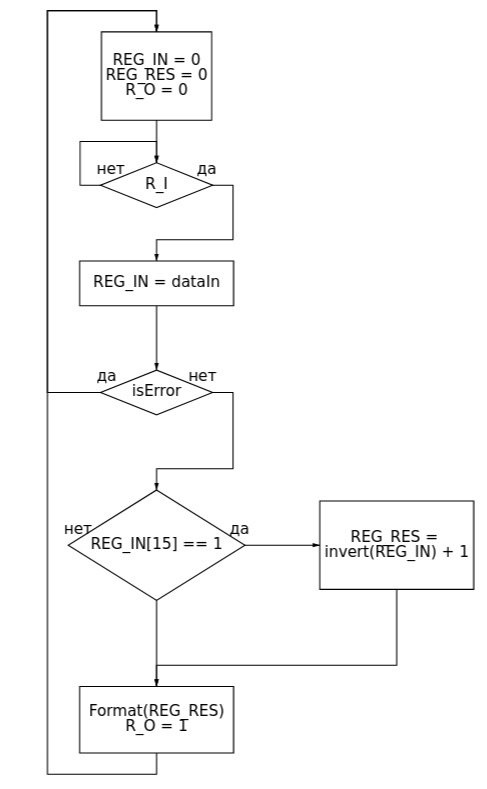
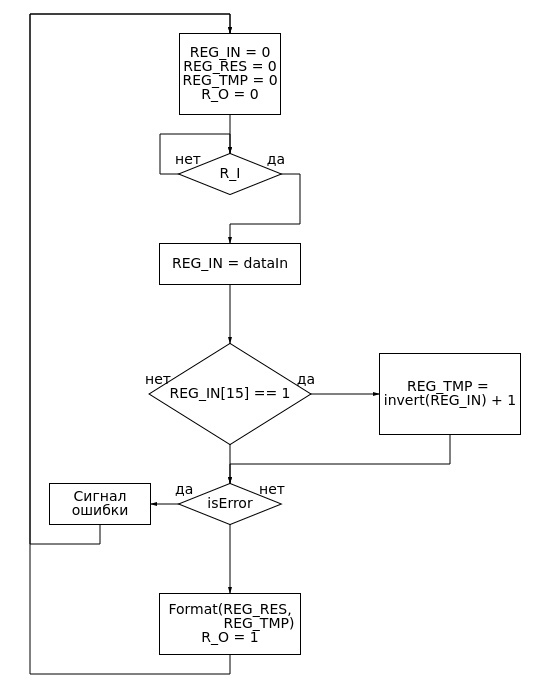
fsm description added

diff --git a/doc/fsm.md b/doc/fsm.md
@@ -7,14 +7,16 @@
 Разрядность регистра равна шестнадцати.
 2. Для сохранения результата требуется ввести в схему регистр "REG\_RES", разрдность
 которого равна шестнадцати.
-3. Для корректного ввода данных автомат должен иметь возможность индетифицировать
+3. Для промежуточных вычислений введем регистр "REG\_TMP" и регистр для
+обозначения знака числа "REG\_SIGN".
+4. Для корректного ввода данных автомат должен иметь возможность индетифицировать
 момент, в который информация на входной шине сформирована. Именно с этой целью вводится
 шина "R\_I". Автомат будет находиться в ожидании прихода сигнала на этой шине и лишь
 после этого сможет сохранить введенное значение с шины "dataIn".
-4. Аналогичная ситуация разворачивается и на выходе автомата. Выдадим сигнал на шину "R\_O"
+5. Аналогичная ситуация разворачивается и на выходе автомата. Выдадим сигнал на шину "R\_O"
 длительностью в 1 такт, тогда как принимающее устройство будет вынуждено за этот такт
 считать информацию.
-5. Вследствие некорректности входных данных сформировать шину ошибки.
+6. Вследствие некорректности входных данных сформировать шину ошибки "REG\_ERROR"
 
 В соответствии с описанным выше составом устройства будет составлена
 блок-схема его функционирования.
@@ -24,3 +26,19 @@
 <p align="center">
   <img src="./image/bd_fsm.jpg" alt="fsm flow" style="width:400px;height:600px;">
 </p>
+
+## Состояния автомата
+
+1. Cброс будет соответствовать нулевому (начальному) состоянию.
+2. В следующем (первом) состоянии автомату необходимо дождаться прихода сигнала
+на шине "R\_I", записать значение с шины данных на регистр "REG\_IN", после чего
+перейти на второе состояние.
+3. Во втором состоянии необходимо проверить знак числа и в случае его отрицательности
+перейти в третье состояние, иначе продолжить дальше и перейти в четвертое состояние.
+4. В третьем состоянии необходимо перевести число в положительное число и поменять
+значение "REG\_SIGN" на логическую единицу и затем перейти в четвертое состояние.
+4. В четвертом состоянии необходимо проверить число на усечение и в случае истины 
+перейти в пятое состояние ошибки, иначе перейти в шестое состояние.
+5. В пятом состояние необходимо вывести шину ошибки и перейти в изначальное состояние.
+6. В шестом состоянии необходимо перевести число в нужный формат и
+сформировать результат, а затем перейти в изначальное состояние.
